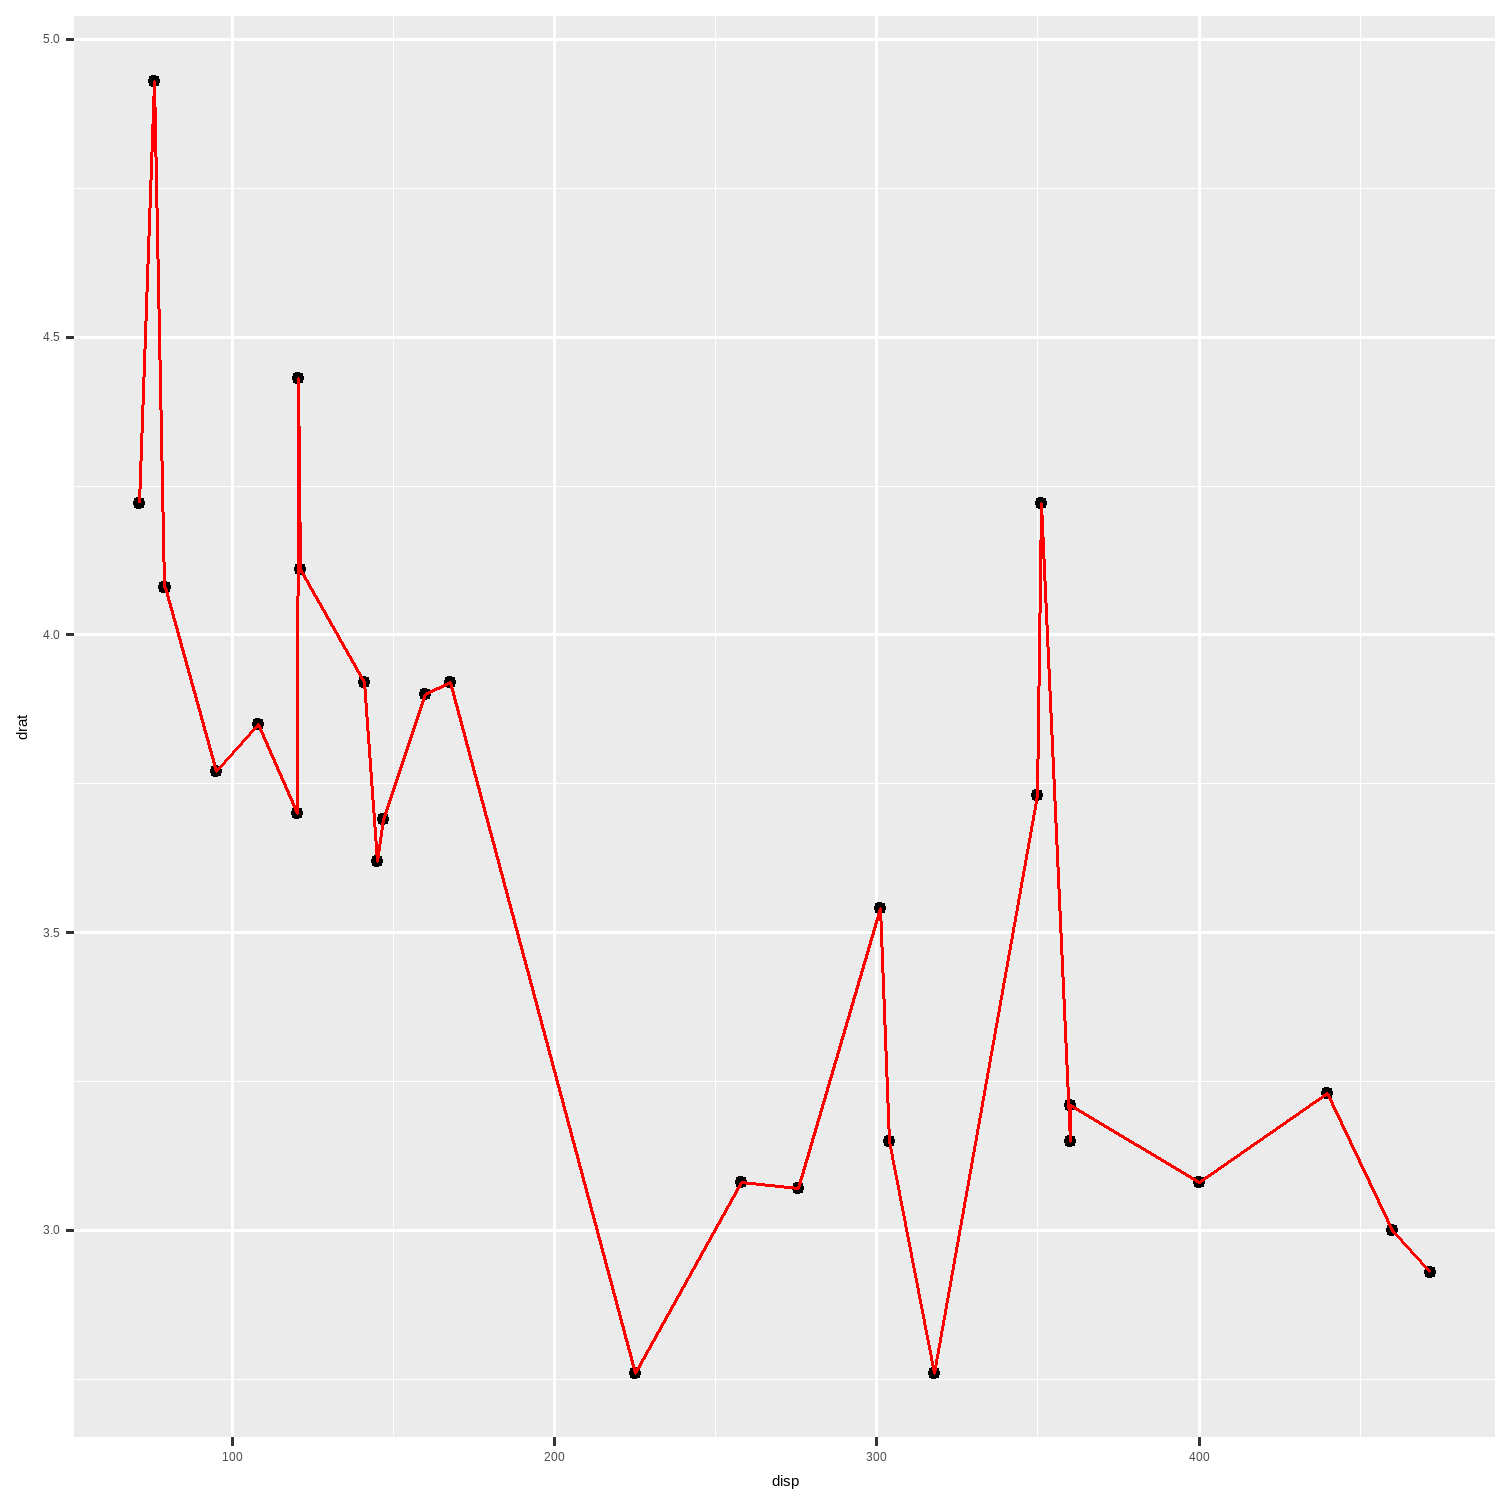
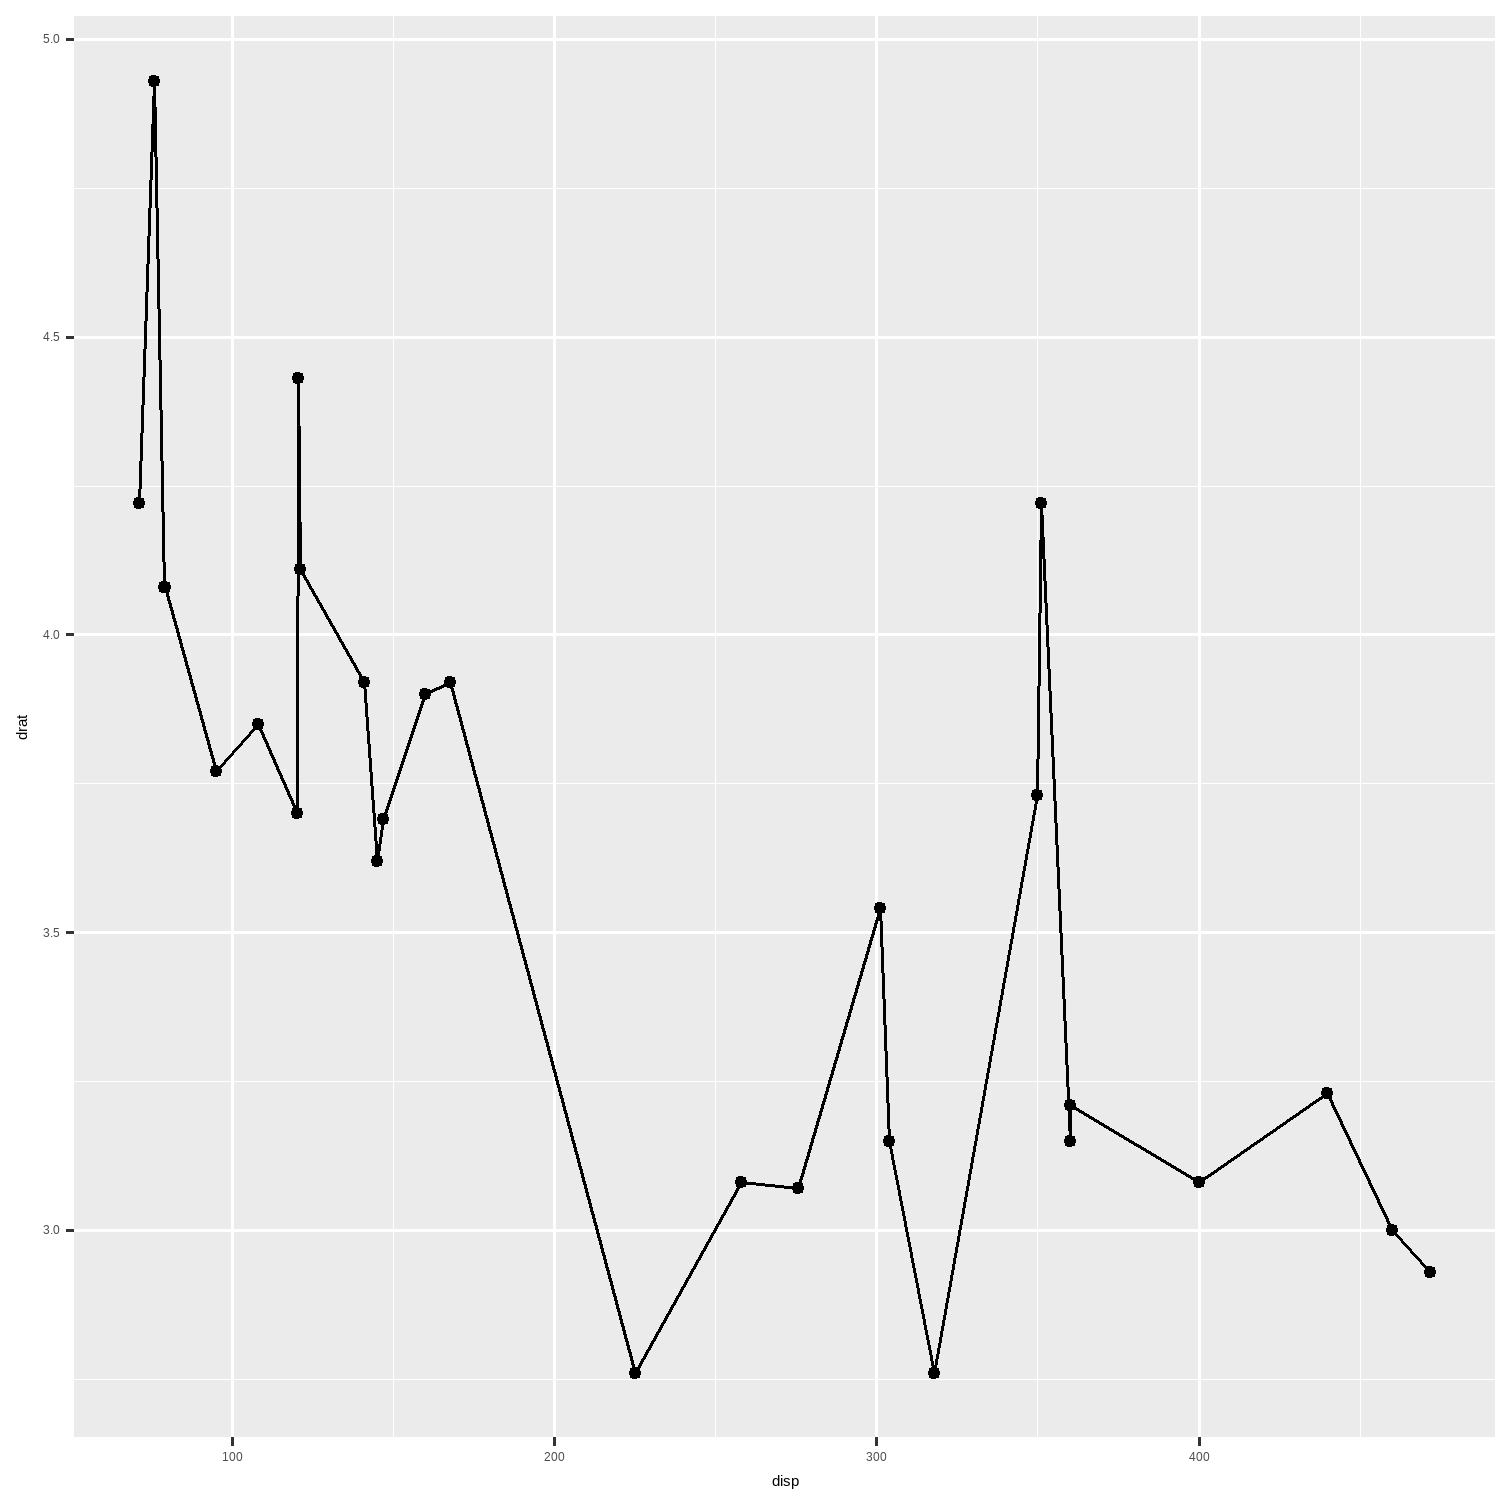
quote marks around "red"

diff --git a/docs/index.html b/docs/index.html
@@ -23,7 +23,7 @@ class: center, middle, inverse
 
 Ben Matthews&lt;sup&gt;1&lt;/sup&gt; and Eilidh Jack&lt;sup&gt;2&lt;/sup&gt;
 
-29/06/2020  (Updated 2020-06-24)
+2020-06-29  (Last updated 2020-06-24)
 
 &lt;sup&gt;1&lt;/sup&gt;University of Edinburgh
 
@@ -396,7 +396,7 @@ ggplot(
 - This makes it suuuuuuper flexible - you can just __stack layers on top of each other__!
 - `geom`s only add __one layer at a time__
 - __Add__ layers together with `+` __operator__
-- __Order matters!__
+
 
 ---
 .pull-left[
@@ -407,9 +407,7 @@ ggplot(
   mapping = aes(x = disp, y = drat)
 ) +
   geom_point() +
-  geom_line(
-    colour = "red"
-  )
+  geom_line()
 ```
 ]
 
@@ -417,28 +415,6 @@ ggplot(
 &lt;img src="00-combined_slides_files/figure-html/unnamed-chunk-4-1.png" width="504" /&gt;
 ]
 
-
-
-
----
-
-.pull-left[
-
-```r
-ggplot(
-  data = mtcars,
-  mapping = aes(x = disp, y = drat)
-) +
-  geom_line(
-    colour = "red"
-  ) +
-  geom_point() 
-```
-]
-
-.pull-right[
-&lt;img src="00-combined_slides_files/figure-html/unnamed-chunk-5-1.png" width="504" /&gt;
-]
 
 
 
@@ -473,7 +449,7 @@ ggplot(
 ]
 
 .pull-right[
-&lt;img src="00-combined_slides_files/figure-html/unnamed-chunk-6-1.png" width="504" /&gt;
+&lt;img src="00-combined_slides_files/figure-html/unnamed-chunk-5-1.png" width="504" /&gt;
 ]
 
 ---
@@ -519,10 +495,38 @@ ggplot(
 ## Error in FUN(X[[i]], ...): object 'red' not found
 ```
 
+&lt;img src="00-combined_slides_files/figure-html/unnamed-chunk-6-1.png" width="504" /&gt;
+
+
+]
+
+---
+
+---
+
+.pull-left[
+
+```r
+# not the quotation marks around "red"
+
+ggplot(
+  data = mtcars,
+  mapping = aes(x = disp, y = drat)
+) +
+  geom_line(
+    colour = "red"
+  ) +
+  geom_point() 
+```
+]
+
+.pull-right[
 &lt;img src="00-combined_slides_files/figure-html/unnamed-chunk-7-1.png" width="504" /&gt;
 
 
 ]
+
+
 
 ---
 
@@ -545,7 +549,6 @@ class: center, middle, inverse
 class: center, middle, inverse
 
 # If you want `ggplot` to know about something in your dataset, use `aes()`
-# Order matters in the `ggplot` call
 
 ---
 
@@ -856,9 +859,9 @@ ggplot(
 # Adjusting the scales
 
 
-You can change how the __axes__ are displayed by setting `scales = `. This focuses on the trends __within__ the plot and makes it harder to see trends __between__ plots.
-
 .pull-left[
+
+You can change how the __axes__ are displayed by setting `scales = `. This focuses on the trends __within__ the plot and makes it harder to see trends __between__ plots.
 
 
 ```r
@@ -995,8 +998,6 @@ ggplot(
 .pull-right[
 &lt;img src="00-combined_slides_files/figure-html/unnamed-chunk-17-1.png" width="504" /&gt;
 ]
-
----
 
 ---
 
